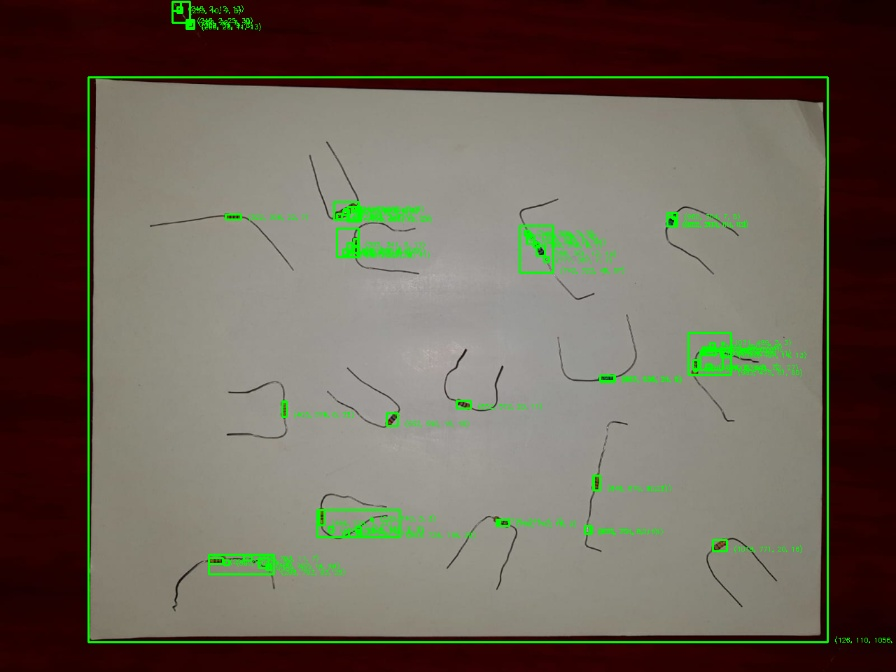
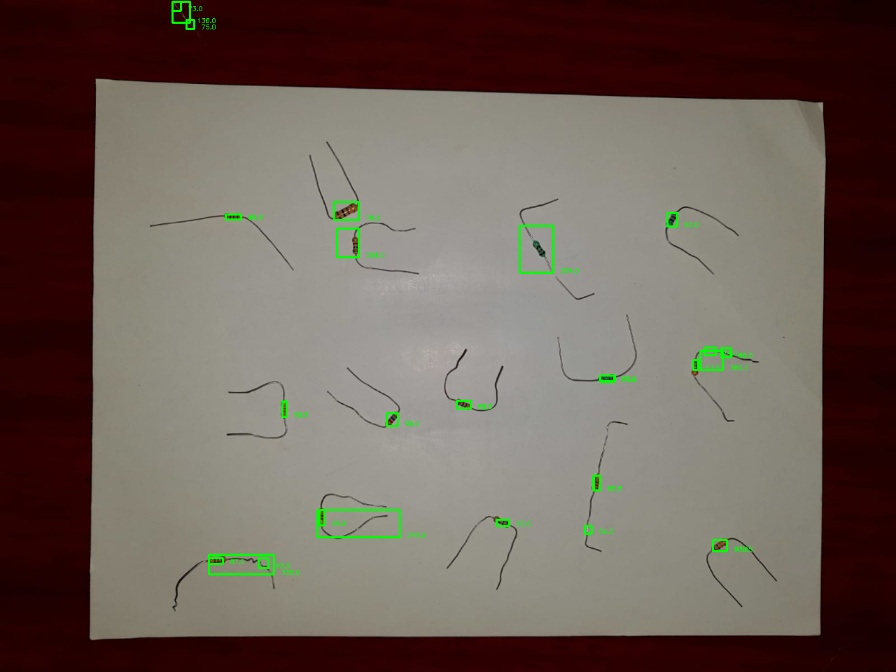
modified test code

diff --git a/test.py b/test.py
@@ -26,7 +26,6 @@ gray = cv2.cvtColor(image, cv2.COLOR_BGR2GRAY)
 # Find Canny edges 
 
 kernel = np.array([[5]*5]*5)
-print(kernel)
 gray_dilated = cv2.dilate(gray, kernel)
 edged = cv2.Canny(gray_dilated, 0, 200) 
 cv2.waitKey(0) 
@@ -36,20 +35,21 @@ cv2.waitKey(0)
 # since findContours alters the image 
 contours, hierarchy = cv2.findContours(edged,  cv2.RETR_LIST , cv2.CHAIN_APPROX_SIMPLE) 
 contours = list(contours)
-i=0
-while i != -1:
-    print(len(contours), i)
-    rect = cv2.boundingRect(contours[i])
-    print(cv2.contourArea(contours[i]))
-    try:
-        if  cv2.contourArea(contours[i]) > 1200 or cv2.contourArea(contours[i]) < 400: 
-            contours.pop(i)
-            i -= 1
-        else: 
-            i += 1
-    except:
-        i = -1
-    
+# i=0
+# while i != -1:
+#     try:
+#         print(len(contours), i)
+#         print(cv2.contourArea(contours[i]))
+#         if  cv2.contourArea(contours[i]) > 401 or cv2.contourArea(contours[i]) < 400: 
+#             contours.pop(i)
+#             print("hey")
+#         i += 1
+#     except IndexError:
+#         i == -1    
+#         break
+
+
+contours[:] = [x for x in contours if not(cv2.contourArea(x) > 450 or cv2.contourArea(x) < 50)]
 # print(contours[0])
 # half = cv2.resize(edged, (0, 0), fx = 0.8, fy = 0.8)
 cv2.imwrite("canny.jpg", edged)
@@ -71,9 +71,8 @@ for c in contours:
     # if  cv2.contourArea(c) > 1000: continue
     # print (cv2.contourArea(c))
     x,y,w,h = rect
-    print(x,y,w,h)
     cv2.rectangle(image,(x,y),(x+w,y+h),(0,255,0),2)
-    cv2.putText(image,str((x,y,w,h)),(x+w+10,y+h),0,0.3,(0,255,0))
+    cv2.putText(image,str(cv2.contourArea(c)),(x+w+10,y+h),0,0.3,(0,255,0))
 
 # plot.imshow(image)
 # plot.show()
